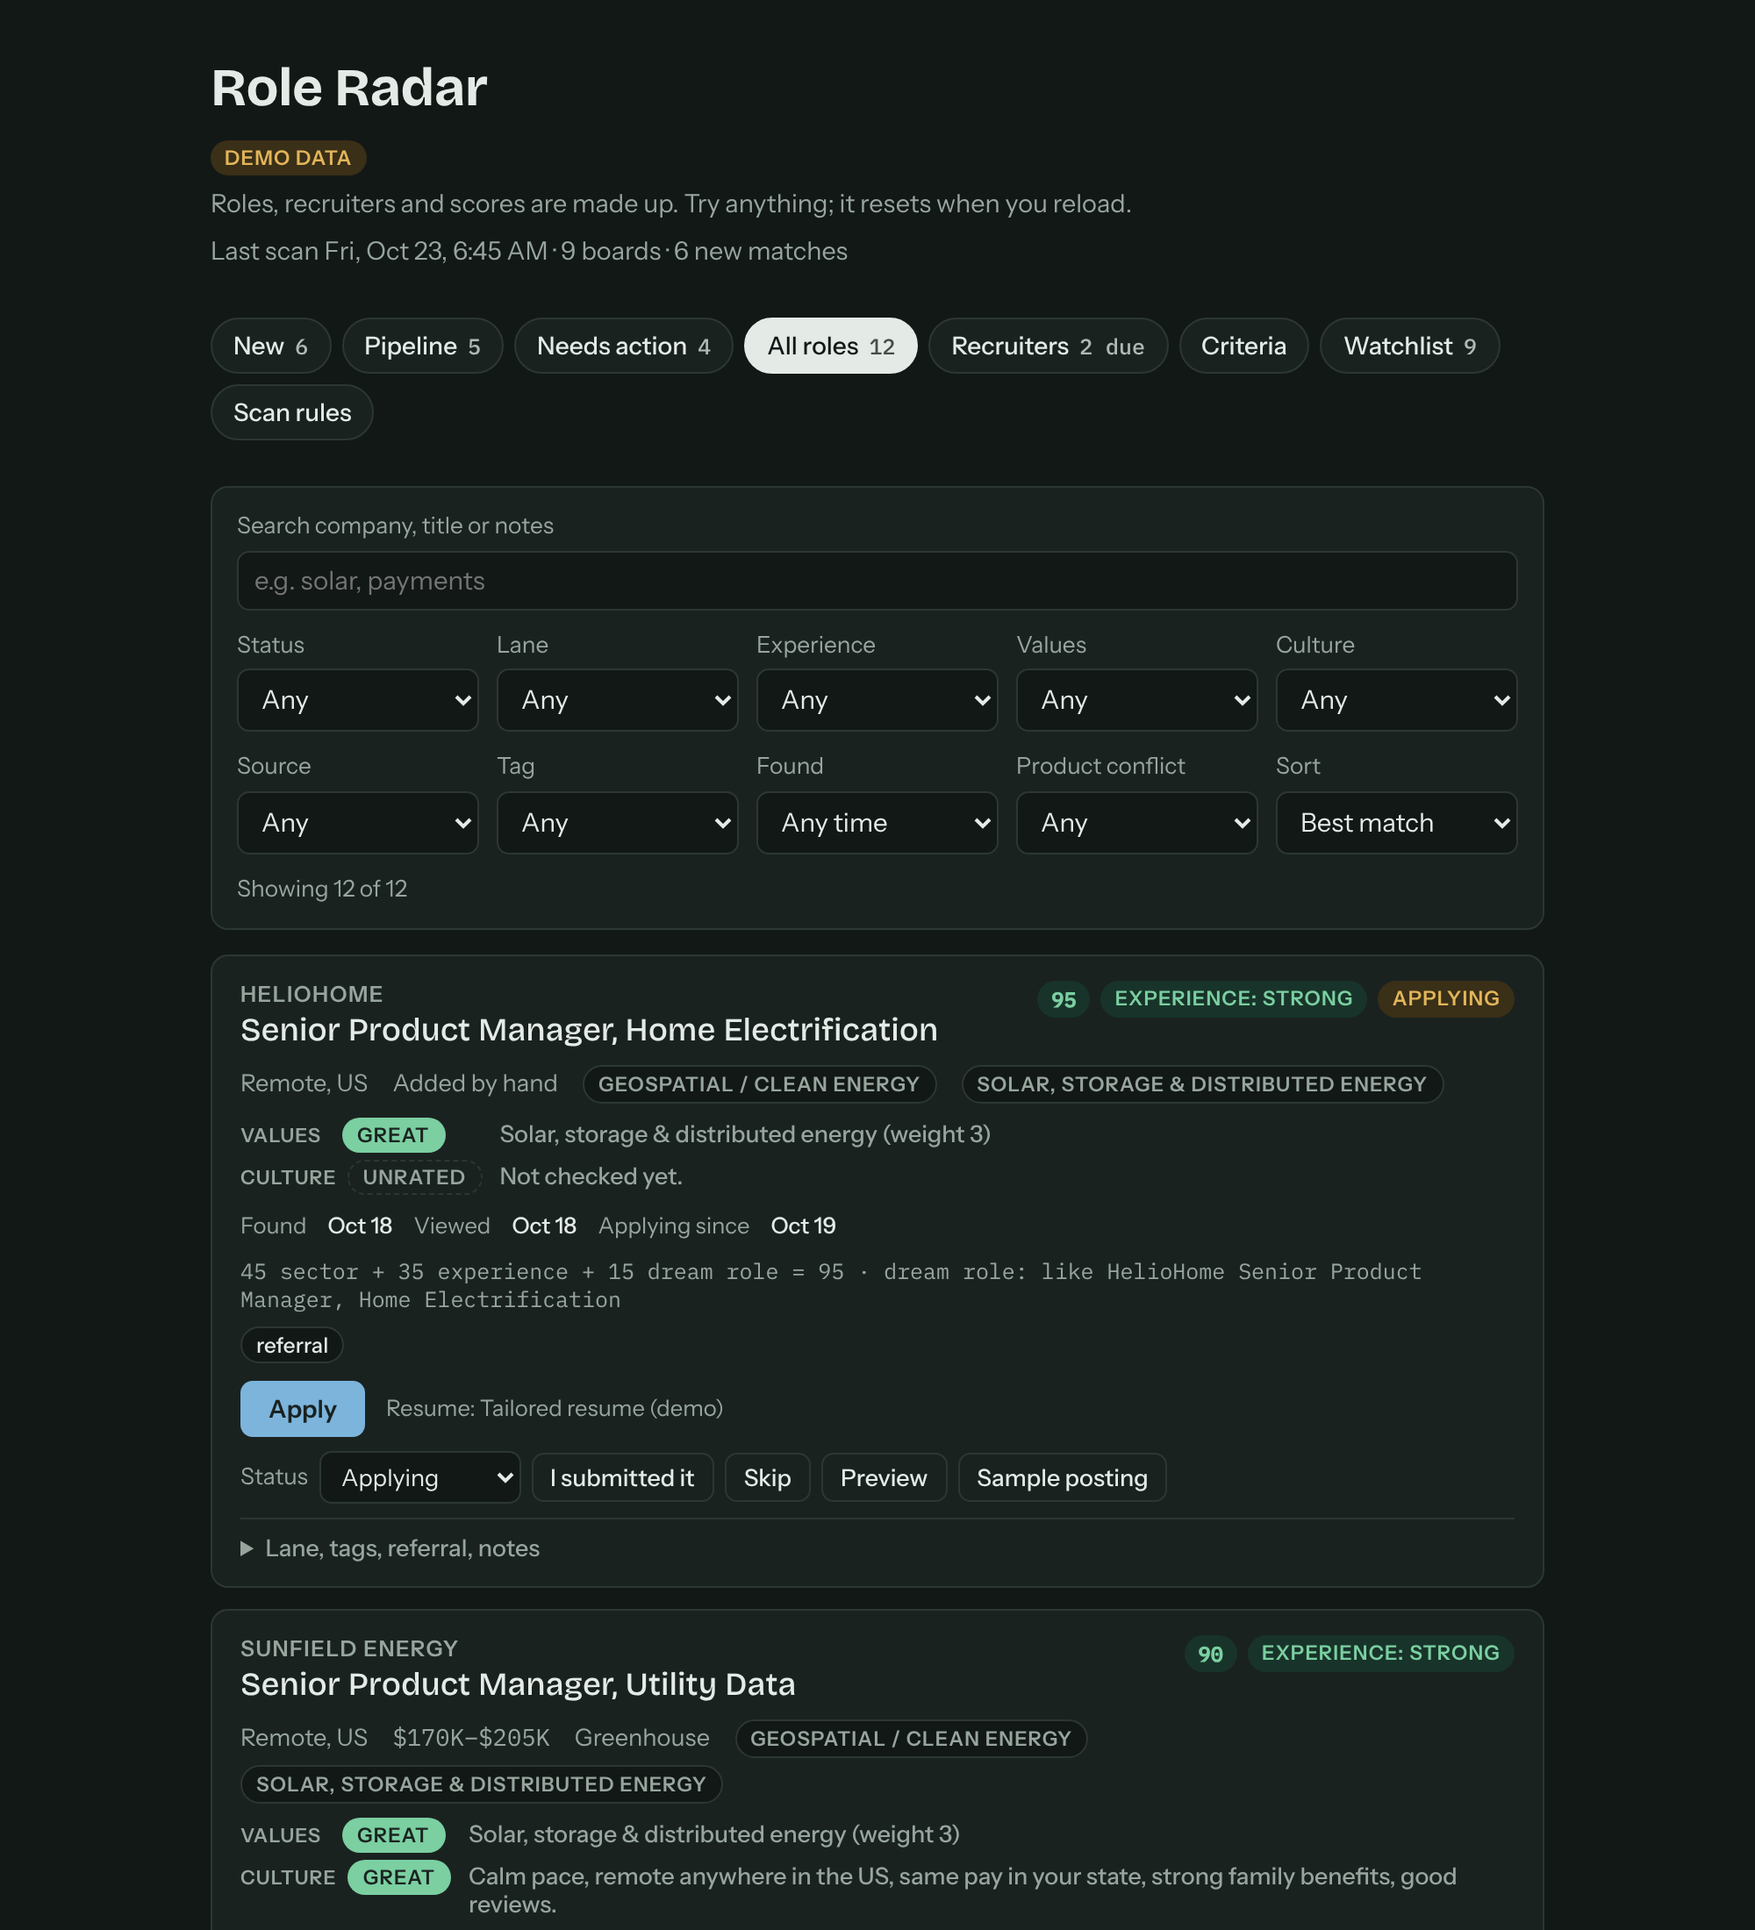
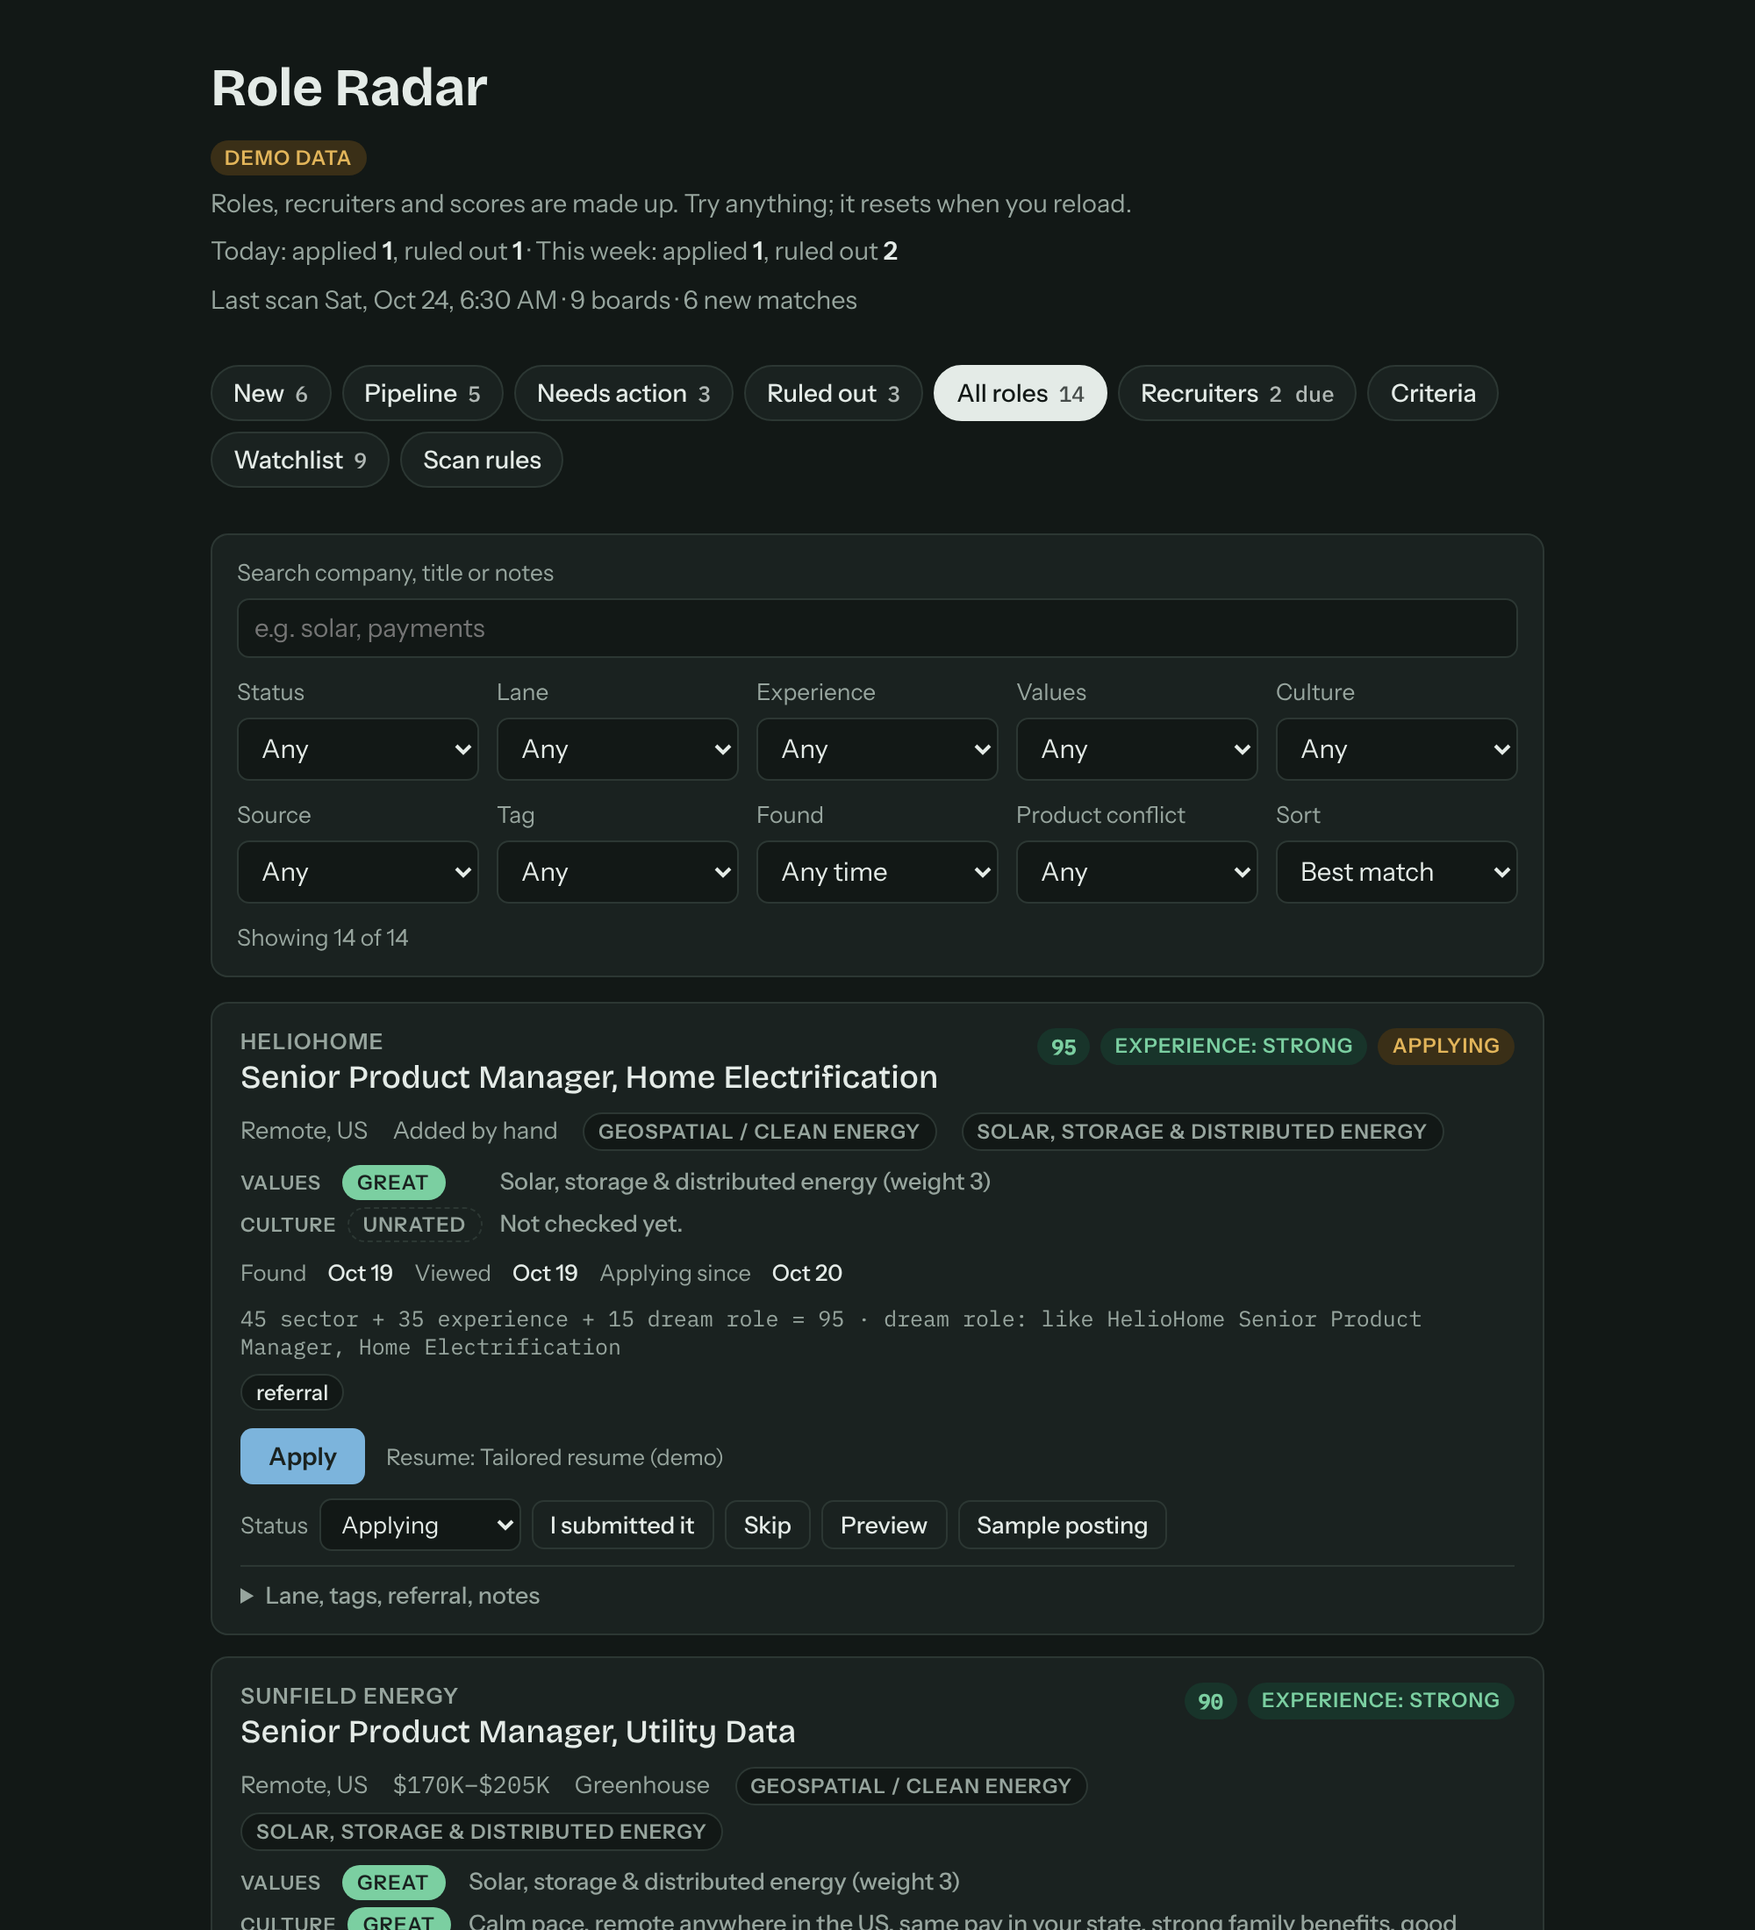
Showcase sweep: fix 1 P0, 3 P1, 4 P2 in the public demo; regenerate screenshots
RR-N3-1..8 from the ux-reviewer showcase review (docs/reviews/2026-10-24-showcase.md),
each with a red-first test in tests/showcase.test.mjs.

Claude-Session: https://claude.ai/code/session_01S2xZTupe2qe2vZrkJ8z2XQ

diff --git a/app/role-radar.html b/app/role-radar.html
@@ -114,6 +114,9 @@ dialog .row2{display:flex;gap:8px;justify-content:flex-end;margin-top:10px;flex-
 .skipwhy input{flex:1 1 100%;font:inherit;font-size:.88rem;color:var(--ink);background:var(--bg);border:1px solid var(--line);border-radius:7px;padding:6px 9px;min-width:0}
 /* Progress line and the Ruled out tab: eliminated roles count as progress next to applications. */
 .progress b{color:var(--ink);font-weight:600}
+/* Phones, public demo: the Ruled out tab carries the count, so the first role stays on the first screen. */
+@media(max-width:600px){.showcase-mode #progress{display:none}}
+.gmlist a{color:var(--accent)}
 .ruled{display:grid;gap:14px}
 .ruled .sum{background:var(--surface);border:1px solid var(--line);border-radius:10px;padding:12px 16px;display:grid;gap:6px}
 .ruled .sum p{margin:0}
@@ -643,6 +646,7 @@ function critSummary(d){
       <div><small>Priority-sector floor</small><b>${money(c.priority_sector_floor_usd)}</b></div>
       <div><small>Min score to add</small><b>${esc(sc.min_score_to_add??"—")}</b></div>
       <div><small>Digest size</small><b>${esc(sc.digest_max_items??"—")}</b></div>
+      ${AL?(()=>{const rs=AL.normalize(d).rules, n=l=>rs.filter(r=>r.level===l).length;return `<div><small>Alerts</small><b><a href="#alerts">${n("loud")} loud, ${n("quiet")} quiet (see Alerts)</a></b></div>`;})():""}
     </div></div>
     <div class="ccard"><h2>Sector weights</h2><div>${secs.map(s=>`<div class="sec"><span class="lbl">${esc(s.label||s.id)}</span>${pip(Number(s.weight)||0)}${Array.isArray(s.examples)&&s.examples.length?`<span class="ex">${listTxt(s.examples.slice(0,6))}</span>`:""}</div>`).join("")||`<span class="hint">No sectors yet.</span>`}</div></div>
     ${xs.length?`<div class="ccard"><h2>Never show</h2><div class="tags">${xs.map(x=>`<span class="xchip">${esc(x)}</span>`).join("")}</div></div>`:""}
@@ -783,9 +787,9 @@ function gmailStatus(){
   else if(gs.state==="done"){
     const n=gs.picked.size;
     body=gs.items.length?`<p class="hint">${gs.items.length} ${gs.items.length===1?"role has":"roles have"} news in Gmail. Untick anything that's wrong, then update the rest. The status date is the email's date.</p>
-      <ul class="gmlist">${gs.items.map(u=>{const url=safeUrl(u.viewUrl);return `<li><label><input type="checkbox" data-gspick="${esc(u.key)}"${gs.picked.has(u.key)?" checked":""}>
+      <ul class="gmlist">${gs.items.map(u=>{const sample=isSampleUrl(u.viewUrl), url=sample?"":safeUrl(u.viewUrl);return `<li><label><input type="checkbox" data-gspick="${esc(u.key)}"${gs.picked.has(u.key)?" checked":""}>
         <span><b>${esc(u.company)}</b> · ${esc(u.title)} <span class="chip st st-${esc(u.from)}">${esc(STATUS_LABEL[u.from]||u.from)}</span> → <span class="chip st st-${esc(u.to)}">${esc(STATUS_LABEL[u.to]||u.to)}</span>
-        <span class="hint">Email <span class="mono">${fmtDate(u.date)}</span>${u.subject?` · ${esc(u.subject)}`:""}${url?` · <a href="${esc(url)}" target="_blank" rel="noopener">Open email</a>`:""}</span></span></label></li>`;}).join("")}</ul>
+        <span class="hint">Email <span class="mono">${fmtDate(u.date)}</span>${u.subject?` · ${esc(u.subject)}`:""}${url?` · <a href="${esc(url)}" target="_blank" rel="noopener">Open email</a>`:sample?" · Sample email":""}</span></span></label></li>`;}).join("")}</ul>
       <div class="gmfoot"><button class="primary" type="button" id="gsApply"${n?"":" disabled"}>Update ${n} ${n===1?"role":"roles"}</button><button class="btn" type="button" id="gsFind">Check again</button></div>`
       :`<p class="hint">No new confirmations, interview invites, rejections or offers for the ${pipeN} ${pipeN===1?"role":"roles"} in your pipeline.</p><button class="btn" type="button" id="gsFind">Check again</button>`;
   }
@@ -835,7 +839,7 @@ function renderCriteria(){
       <div class="ctl"><button class="primary" type="submit">Save criteria</button>${critDraft!==null?`<button class="btn" type="button" id="critReset">Discard changes</button>`:""}</div>
     </form>
     <div class="ccard"><h2>Digest preview</h2><p class="sub" style="margin:0">How tomorrow's digest would rank the roles in New with the criteria above. Edit a weight and watch it change.</p><div id="digestPreview">${digestPreview(p.data)}</div></div>
-    <div class="ccard alerts"><h2>Alerts</h2><p class="sub" style="margin:0">What pings your phone, set by the <span class="mono">alerts</span> block above. Change a level or a score and watch this change.</p><div id="alertsPreview">${alertsPreview(p.data)}</div></div></div>`;
+    <div class="ccard alerts" id="alerts"><h2>Alerts</h2><p class="sub" style="margin:0">What pings your phone, set by the <span class="mono">alerts</span> block above. Change a level or a score and watch this change.</p><div id="alertsPreview">${alertsPreview(p.data)}</div></div></div>`;
 }
 // Events the alert rules would see in the data on this page: new roles (with score), status moves, due follow-ups, recent recruiter contact.
 function alertEvents(spec){
@@ -849,15 +853,24 @@ function alertEvents(spec){
   if(TOOLS) recruiters.forEach(r=>{const d=daysSince(r.lastContact); if(d!==null&&d<=14) ev.push({type:"recruiter_email",label:`${recPrivate?initials(r.name):r.name||"Recruiter"}${r.company?" · "+r.company:""}`,at:r.lastContact});});
   return ev;
 }
+// Plain words for the Alerts card: channel codes and rule types as a person would say them.
+const CHANNEL_WORDS={push:"phone notification",thread:"the chat thread",email:"email"};
+const alertWhat=x=>x.rule.when==="status_change"?"Moved to "+(STATUS_LABEL[x.event.to]||x.event.to||"a new status"):({new_role:"New role",recruiter_email:"Recruiter email",follow_up_due:"Follow-up due"})[x.rule.when]||"Alert";
+// The demo's alert preview runs at 9:00 in the spec's time zone, so it reads the same whenever it's opened.
+function demoClock(tz){
+  const now=new Date();
+  try{ const [h,m]=new Intl.DateTimeFormat("en-US",{timeZone:tz||undefined,hour:"numeric",minute:"numeric",hourCycle:"h23"}).format(now).split(":").map(Number); return new Date(now.getTime()-((h-9)*60+m)*60000); }
+  catch(_){ return now; }
+}
 function alertsPreview(spec){
   if(!AL||!spec) return `<p class="hint">Preview needs a valid spec.</p>`;
   const cfg=AL.normalize(spec), q=cfg.quiet_hours;
   const rules=cfg.rules.length?`<ul class="arules">${cfg.rules.map(r=>`<li><span class="lvl ${r.level}">${r.level}</span><span>${esc(AL.describe(r))}</span></li>`).join("")}</ul>`:`<p class="hint">No rules, so nothing alerts.</p>`;
-  const how=`<p class="hint">Loud alerts go to: ${cfg.channels.map(esc).join(", ")}.${q?` Quiet hours ${AL.clock(q.start)}–${AL.clock(q.end)}${q.tz?" "+esc(q.tz):""}: ${q.loud_breaks_through?"loud alerts still come through, quiet ones wait":"everything waits until morning"}.`:""}</p>`;
-  const out=AL.evaluate(alertEvents(spec),spec,new Date());
+  const how=`<p class="hint">Loud alerts go to: ${cfg.channels.map(c=>esc(CHANNEL_WORDS[c]||c)).join(", ")}.${q?` Quiet hours ${AL.clock(q.start)}–${AL.clock(q.end)}${q.tz?" "+esc(q.tz):""}: ${q.loud_breaks_through?"loud alerts still come through, quiet ones wait":"everything waits until morning"}.`:""}</p>`;
+  const out=AL.evaluate(alertEvents(spec),spec,window.__RR_DEMO__?demoClock(q&&q.tz):new Date());
   const loud=out.filter(x=>x.level==="loud"), quiet=out.filter(x=>x.level==="quiet");
   const now=out.length?`<p class="sub" style="margin:.6rem 0 .2rem"><strong>With the roles on this page:</strong> ${loud.length} loud, ${quiet.length} for the summary.</p>`
-    +(loud.length?`<ol class="dig">${loud.slice(0,6).map(x=>`<li><span class="lvl loud">ping</span><span>${esc(x.event.label)}</span><span class="sub2">${esc(x.rule.id)}${x.event.score!=null?" · score "+x.event.score:""}${x.held?" · held for quiet hours":""}</span></li>`).join("")}</ol>`:"")
+    +(loud.length?`<ol class="dig">${loud.slice(0,6).map(x=>`<li><span class="lvl loud">ping</span><span>${esc(x.event.label)}</span><span class="sub2">${esc(alertWhat(x))}${x.event.score!=null?" · score "+x.event.score:""}${x.held?" · held for quiet hours":""}</span></li>`).join("")}</ol>`:"")
     :`<p class="hint">Nothing on this page would alert right now.</p>`;
   return rules+how+now;
 }
@@ -966,7 +979,7 @@ function renderPreview(bodyOnly){
   const open=url?`<a class="pv-open" href="${esc(url)}" target="_blank" rel="noopener">Open posting ↗</a>`:"";
   const msg=(h,t)=>`<div class="pv-msg"><strong>${h}</strong><span>${t}</span>${open||`<span>${sample?"This is a made-up role, so there's no real posting.":"No posting link is saved for this role."}</span>`}</div>`;
   const srcName=SOURCE_LABEL[String(j.source||j.ats||"").toLowerCase()]||esc(j.source||j.ats||"this source");
-  const body=p.state==="ok"?`<div class="pv-body" id="pvBody"></div><p class="pv-src">${window.__RR_DEMO__?`Sample description written for this demo. On the live page this loads word for word from ${esc(ats||"the company")}'s public job board.`:`Word for word from ${esc(ats)}'s public job board. Nothing is saved.`}</p>`
+  const body=p.state==="ok"?`<p class="pv-src">${window.__RR_DEMO__?`Sample description written for this demo. On the live page this loads word for word from ${esc(ats||"the company")}'s public job board.`:`Word for word from ${esc(ats)}'s public job board. Nothing is saved.`}</p><div class="pv-body" id="pvBody"></div>`
     :p.state==="loading"?`<p class="pv-src" role="status">Loading the description from ${esc(ats||"the job board")}…</p>`
     :p.state==="gone"?msg("This posting isn't on the board anymore",`${esc(ats)} no longer lists it, so it may be closed. The original link might still work.`)
     :p.state==="error"?msg("Couldn't load the description",`${esc(ats)} didn't answer from this page. Open the posting to read it there.`)

diff --git a/HANDOFF.md b/HANDOFF.md
@@ -20,6 +20,7 @@ The repo now uses the studio planning IDs (milestone `M1`, task `M1.1`, step `M1
 ## Portfolio / public presence
 _Updated 2026-10-24._
 - 2026-10-24 (night shift, `claude/project-thread-6wmh2k-2`, stacked on PR #34): README case study now shows the features shipped after PR #31: a "Count the no's" section with a Ruled out screenshot, "Alerts you set in the same file" with the Alerts card, and the Gmail status check with its screenshot (demo inbox is a labeled fake). The privacy bullet says recruiters are owner-only (PR #34), and the layout table lists `alerts.js`, `gmail-import.js`, `recruiter-store.js` and `app/capabilities.json`. New screenshots: `ruled-out.png`, `alerts.png`, `gmail-status.png` (`npm run screenshots`).
+- 2026-10-24 (same branch): showcase sweep of the public demo at 390x844 and 1280x800 (`docs/reviews/2026-10-24-showcase.md`): 1 P0, 3 P1 and 4 P2, all fixed with red-first tests in `tests/showcase.test.mjs`. All README screenshots were regenerated together (they predated Ruled out). On phones, the public demo hides the progress line so the first role is on the first screen. The demo shows an application today, its sample emails have no example.com links, the Alerts card uses plain words and a fixed 9:00 demo clock, "At a glance" links to Alerts, and the preview's sample note sits on top.
 - 2026-10-22: portfolio repoint shipped (portfolio PR #14, merged): role-radar.html's "Try the live demo" opens https://chaseholroyd.com/role-radar/, with a "Code on GitHub" link, "5 sources" (adds Climatebase), "Try anything: the demo resets when you reload." and the footer "Charlotte area". The old `/demo/role-radar/` snapshot is deleted from the portfolio repo, and the page's screenshot was re-shot from this repo's public build.
 - 2026-10-22: README screenshots regenerated ("Strong fit" chips, 9 boards, "Sample posting"); if the portfolio reuses any of them, refresh there too.
 - 2026-10-22: the public demo now links back to https://chaseholroyd.com/role-radar.html and the portfolio home, with a one-line intro (public build only).

diff --git a/docs/reviews/2026-10-24-showcase.md b/docs/reviews/2026-10-24-showcase.md
@@ -1,0 +1,16 @@
+# Showcase review, 2026-10-24 (night shift)
+
+ux-reviewer, showcase mode, on the local public build only (chaseholroyd.com isn't reachable from the build session). `npm run review:shots`: 0 console errors, no sideways scroll, no placeholder text, phone tap targets 44px or more. Nothing from the 2026-10-22 review came back.
+
+| ID | Pri | Finding | Fix (test in `tests/showcase.test.mjs`) |
+|---|---|---|---|
+| RR-N3-1 | P0 | README screenshots predated Ruled out (no tab, "All roles 12", no progress line) | All 13 screenshots regenerated in one run |
+| RR-N3-2 | P1 | Phone, public demo: the new progress line pushed the first role off the first screen | Progress line hidden under 600px in the public demo (the Ruled out tab keeps the count). First title line shows at 390x844 |
+| RR-N3-3 | P1 | Demo progress read "applied 0" today and this week | Demo role Northstar Utilities applied today: "Today: applied 1, ruled out 1" |
+| RR-N3-4 | P1 | Demo Gmail status links went to example.com and were browser-blue | Demo emails say "Sample email" with no link; live links use the accent color |
+| RR-N3-5 | P2 | Alerts card showed rule ids (`dream_match`) and channel codes (`push, thread`) | "New role", "Moved to Screen", "Recruiter email"; "phone notification, the chat thread" |
+| RR-N3-6 | P2 | Every demo ping said "held for quiet hours" depending on the visitor's clock | The demo's alert preview runs at 9:00 in the spec's time zone |
+| RR-N3-7 | P2 | Alerts card sat at the bottom of a very long Criteria tab | "At a glance" gains "Alerts: 3 loud, 3 quiet (see Alerts)", linking to `#alerts` |
+| RR-N3-8 | P2 | The demo preview's "sample description" note was at the end of the sheet | Moved above the description |
+
+Left: none at P2 or above. The live site still needs a phone check by Chase after merge.
